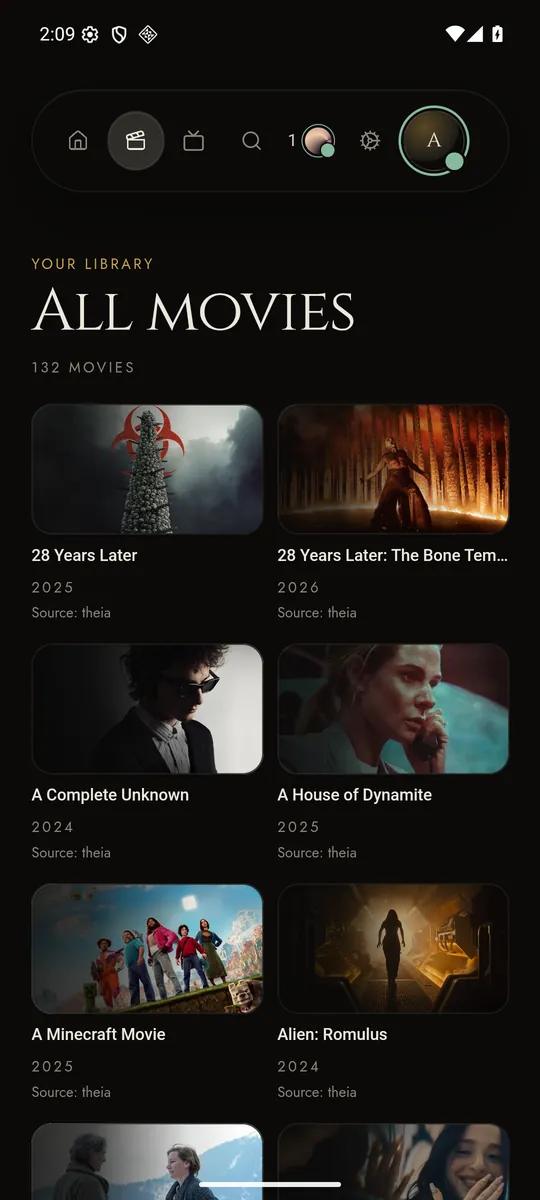
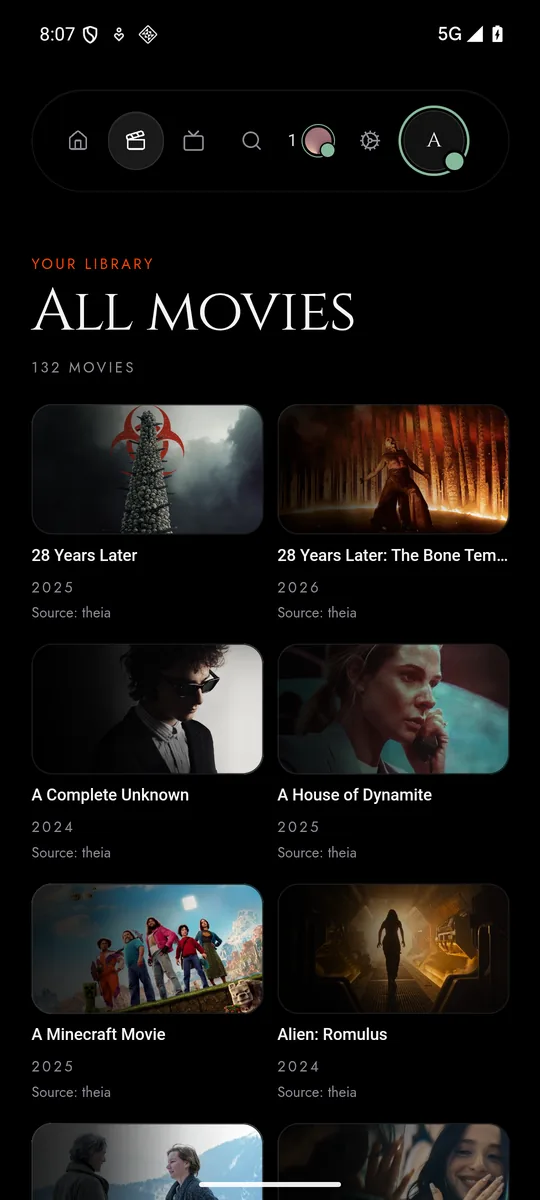
Theia 5.2.0: release notes, README and pictures for the 5.1 interface

diff --git a/site/assets/css/30-hero.css b/site/assets/css/30-hero.css
@@ -38,9 +38,7 @@
   display: block;
 }
 .gilded {
-  background: linear-gradient(110deg, var(--bone) 8%, var(--accent) 88%);
-  color: transparent;
-  background-clip: text;
+  color: var(--accent);
 }
 .hero .lead {
   max-inline-size: 35rem;

diff --git a/docs/screenshots/README.md b/docs/screenshots/README.md
@@ -1,8 +1,10 @@
 # The screenshots
 
-The pictures in the README of this repository show **Theia 5.0** on a **sample
-library**, taken on 7 November 2026. None of them is a mockup, and none shows
-anybody's real library.
+The pictures in the README of this repository show **Theia 5.1.1** on a **sample
+library**, taken on 10 November 2026 in the Electric Flame colours on pure OLED
+black (decision 239). They replace the 5.0 set of 7 November, which showed the
+earlier gold palette. None of them is a mockup, and none shows anybody's real
+library.
 
 ## The sample library
 
@@ -23,25 +25,37 @@ anybody's real library.
   friends are generated gradients with no letters or features, so nobody can be
   mistaken for a real person.
 
-The server was a throwaway one (port 8395, its own data folder), built from the 5.0
-tree and reporting version 5.0.0, never the maintainer's real library. Every
-outbound connection except TMDB was refused, so nothing reached Theia's Firebase
-database or GitHub.
+The server was a throwaway one (port 8395, a copy of the sample data folder), built
+from the 5.1.1 tree and reporting version 5.1.1, never the maintainer's real
+library. This time it was cut off from everything, TMDB included: the posters,
+backdrops and texts were already in the sample data's cache, so nothing left the
+machine, and nothing reached Theia's Firebase database or GitHub. The film stand-in
+is the 2 h 46 min video again, swapped in for its two-second clip for the
+duration of the session and put back afterwards. The friends sheet needed the
+Theia+ early-access code that the beta accepts for tests (`THEIA-PLUS-TEST`), typed
+into the throwaway server only.
 
 ## What each picture is
 
 | Picture | How it was taken |
 | --- | --- |
-| `onboarding`, `profiles`, `home`, `home-rows`, `library`, `film`, `series`, `series-detail`, `search`, `settings`, `settings-playback`, `friends` | The 5.0 interface of the native player, rendered in Microsoft Edge (1400 x 825 CSS pixels at 2x, a little taller where a page needs it) against the sample server, with only the window's own commands answered by a stand-in (the server's address, the window size). The title bar's buttons are drawn by the interface itself. It is the same page the native window shows; it is not a photograph of the native window. |
-| `friends` | As above, plus two alterations: every friend is shown as living in another household, and the friends service is reported reachable, because the sample server is cut off from Firebase. The friends' presence (online, watching, up for a film, do not disturb, inactive, offline) is the server's own, kept alive by a script posting the beacons a player would. The picture is cropped to the sheet. |
-| `phone-*` | The Android application, a debug build of the 5.0 tree, running in an Android emulator (a Pixel 7 profile, Android 16), connected to the sample server. The status bar is the emulator's. It is not a photograph of a physical phone. |
-| `tv-*` | The same application in an Android TV emulator (Google TV system image, Android 16, 1920 x 1080), driven with the keys a remote sends. The ring is the interface's own focus ring. It is not a photograph of a television, and no television was involved. |
-| `player` | The real Windows player, built from the 4.4.2 source, in a 1400 x 825 window at 200 % scaling, driven with real mouse input and photographed on 20 October 2026. It shows the timeline preview: the pointer is at 2:02:17 and the scene is decoded at that second by the player's second engine instance. The window has no sound, and its picture is the video described above. It has not been retaken for 5.0. |
+| `onboarding`, `profiles`, `home`, `home-rows`, `library`, `film`, `series`, `series-detail`, `search`, `settings`, `settings-playback`, `friends` | The 5.1.1 interface of the native player (the current `player/ui` build), rendered in Microsoft Edge (1400 x 825 CSS pixels at 2x, a little taller where a page needs it) against the sample server, with only the window's own commands answered by a stand-in (the server's address, the window size). The page is served by a small proxy as `theia.localhost:5200`, which is the address the settings overview prints. The title bar's buttons are drawn by the interface itself. It is the same page the native window shows; it is not a photograph of the native window. |
+| `friends` | As above, plus two alterations: every friend is shown as living in another household, and the friends service is reported reachable, because the sample server is cut off from Firebase. The friends' presence (online, watching, up for a film, do not disturb, inactive, offline) is the server's own, kept alive by a script posting the beacons a player would. The picture is the sheet alone, whole. |
+| `phone-*` | The Android application, a debug build of the 5.1.1 tree, running in an Android emulator (a Pixel 7 profile, Android 16, 1080 x 2400), connected to the sample server through `adb reverse`. The page was driven over devtools and each picture is the emulator's own screen capture, status bar included. `phone-connect` is the first screen with no server saved, and shows the camera scan of decision 240. It is not a photograph of a physical phone. |
+| `tv-*` | The same application in an Android TV emulator (Google TV system image, Android 16, 1920 x 1080), driven with the keys a remote sends; the system's first-run setup was skipped with `settings put` before the application was installed. The ring is the interface's own focus ring. It is not a photograph of a television, and no television was involved. |
+| `player` | **Not a native capture any more.** The player's own interface (the timeline preview, the island, the bar) rendered in Edge, after Resume was pressed on *Dune: Part Two* and the window's status frames were answered by a stand-in. Edge has no video engine, so the picture behind the controls is the film's TMDB backdrop, zoomed and panned. The pointer is at 2:02:17 and the scene above the bar is decoded at that second by the sample server from the 2 h 46 min stand-in video; it is that video's frame, not the film's. The real Windows player's capture of 20 October 2026 (4.4.2, gold palette) is retired because it no longer showed the product. |
 
-Two things were left out on purpose. The *Server & sources* page of the settings prints
-the folders of the machine the pictures were taken on, so it is not shown. And no
-picture claims that a given phone or television plays a given file: the emulators
-show how the screens look, not what a device can decode.
+Three things were left out on purpose. The *Server & sources* page of the settings
+prints the folders of the machine the pictures were taken on, so it is not shown.
+The welcome page of the server's own web interface prints the machine's addresses,
+so it is not shown either. And no picture claims that a given phone or television
+plays a given file: the emulators show how the screens look, not what a device can
+decode.
+
+Not retaken, and not claimed: the native window itself (the real player draws the
+film with its own engine, which this session did not run), and the site's
+recording, which is a capture of the shipped application and still shows the
+earlier palette.
 
 ## Replacing them
 
@@ -49,4 +63,6 @@ Rebuild the sample server from the tree, seed the household, and shoot the same
 screens. The scripts that built the library, seeded the household, kept the friends
 present and drove the pages (`make.mjs`, `seed.mjs`, `friends.mjs`, `proxy.mjs`,
 `shoot-readme.mjs`) are in `scripts/sample-library/` of the private repository. They
-are not published here.
+are not published here. The 10 November 2026 set was shot with the tour scripts of
+`.theia-private/ui-tour-20261110/` (`final.mjs` for the interface, `phone.mjs` and
+`tv.mjs` for the emulators, `og.mjs` for the share card), which are not tracked.

diff --git a/README.md b/README.md
@@ -11,7 +11,7 @@
 <p align="center">
   <a href="https://github.com/Benitoow/theia-media/releases/latest"><img alt="Latest release" src="https://img.shields.io/github/v/release/Benitoow/theia-media?style=flat-square&color=FF4500"></a>
   <a href="LICENSE"><img alt="Free for noncommercial use: PolyForm Noncommercial from 4.0, GPL-3.0 up to 3.4" src="https://img.shields.io/badge/licence-PolyForm%20NC%20(4.0%2B)%20%C2%B7%20GPL--3.0%20(%E2%89%A43.4)-555?style=flat-square"></a>
-  <a href="#theia-51-instant-refresh-system-tray-theia-social-beta-and-deep-performance"><img alt="Theia 5.1" src="https://img.shields.io/badge/Theia-5.1.1-FF4500?style=flat-square"></a>
+  <a href="#theia-52-the-phone-scans-your-server-and-the-interface-calms-down"><img alt="Theia 5.2" src="https://img.shields.io/badge/Theia-5.2.0-FF4500?style=flat-square"></a>
   <a href="https://discord.gg/5E55F7XFZp"><img alt="Join the Discord" src="https://img.shields.io/badge/Discord-join%20us-5865F2?style=flat-square"></a>
   <img alt="Windows x64" src="https://img.shields.io/badge/Windows-x64-555?style=flat-square">
   <img alt="Ubuntu 24.04 x64" src="https://img.shields.io/badge/Ubuntu%2024.04-x64-555?style=flat-square">
@@ -21,10 +21,10 @@
 
 <p align="center">
   <a href="https://theia-media.app/">Website</a> ·
-  <a href="#theia-51-instant-refresh-system-tray-theia-social-beta-and-deep-performance">Theia 5.1</a> ·
+  <a href="#theia-52-the-phone-scans-your-server-and-the-interface-calms-down">Theia 5.2</a> ·
   <a href="#see-it">Screenshots</a> ·
   <a href="#downloads">Downloads</a> ·
-  <a href="docs/releases/v5.1.1.md">5.1 release notes</a> ·
+  <a href="docs/releases/v5.2.0.md">5.2 release notes</a> ·
   <a href="#three-minute-setup">Setup</a> ·
   <a href="#theia-plex-jellyfin-or-emby">Compare</a> ·
   <a href="https://discord.gg/5E55F7XFZp">Discord</a>
@@ -32,7 +32,7 @@
 
 ![The home screen of Theia: navigation with friends around, the film you were watching, and the rows below it](docs/screenshots/home.webp)
 
-*The home screen of Theia 5.0, in English, on a sample library of 132 recent films and 40 series with friends around. How every picture on this page was made, and what is real in it, is in [docs/screenshots](docs/screenshots/README.md).*
+*The home screen of Theia 5.1, in English, on a sample library of 132 recent films and 40 series with friends around. How every picture on this page was made, and what is real in it, is in [docs/screenshots](docs/screenshots/README.md).*
 
 Theia turns the folders of films and series on your computers, your NAS and your
 Google Drive into one private cinema. A small server looks after your library, a
@@ -52,6 +52,21 @@ connect it: **Google Drive**, through your own Google client. See
 | One download | Built for choosing | Private by default |
 | --- | --- | --- |
 | One setup includes the server, launcher, native player and media engine. Choose all-in-one, server-only or player-only. FFmpeg is downloaded only when the server needs conversion. | Resume, profiles, watchlists, duration filters, one search across films and series, and a nightly pick. | No telemetry or cloud account. TMDB supplies metadata, GitHub Releases supplies updates, and Firebase carries the friends service described above. |
+
+## Theia 5.2: The phone scans your server and the interface calms down
+
+> [!IMPORTANT]
+> **Theia 5.2 is a polish release on the 5.1 interface, and the phone gets the most.**
+> [Read the 5.2 release notes](docs/releases/v5.2.0.md) for what was and was not checked.
+
+| New in 5.2 | What it means |
+| --- | --- |
+| **Scan the server's QR code in the app** | The Android application's connect screen opens the camera, reads the QR code your server shows, and connects. Nothing to copy from one screen to another. |
+| **A phone player that is the desktop's, made small** | One row of small icons under the timeline, the island on top, no volume, and a sheet that is named for everything it holds: audio, subtitles and quality. |
+| **No more gold-era gradients** | The underline under the wordmark, the glow in the profile button and the Theia+ gradients are gone. Black scrims over artwork stay. |
+| **Search on the connect screen's field** | The search page rests on the same quiet field of marks as the connect screen, instead of a video loop: about 850 kB lighter. |
+| **Updating Theia restarts the player** | After an update the player restarts on its own, so the new interface is the one you see. |
+| **A QR code that points at your Wi-Fi** | On a machine running a VPN such as Cloudflare WARP, the server's QR code no longer points at the VPN. |
 
 ## Theia 5.1: Instant refresh, system tray, Theia+ social beta and deep performance
 
@@ -265,8 +280,9 @@ Since 4.4, the player also gives you:
 ![The playback bar of the native player with the pointer at 2:02:17: a still of that scene above the bar, the -30 s and +30 s buttons and the end time](docs/screenshots/player.webp)
 
 *The timeline preview: the pointer is at 2:02:17, nothing has seeked, and the scene
-at that second is drawn above the bar. This picture was taken with 4.4.2 and is a
-stand-in made from the film's own backdrop; see [docs/screenshots](docs/screenshots/README.md).*
+at that second is drawn above the bar. The picture behind the controls is the film's
+own backdrop standing in for the video, because this capture is the player's interface
+rendered in a browser; see [docs/screenshots](docs/screenshots/README.md).*
 
 Theia deliberately has no live TV, DVR, music library, plugins or multi-user
 permissions.
@@ -535,6 +551,13 @@ file. They are not detected from picture or sound, and many files have none.
 Each release has its own notes, with what changed, what to do when updating and
 what was and was not checked.
 
+- **[5.2.0](docs/releases/v5.2.0.md)** — the phone scans your server's QR code and
+  plays with the desktop's bar made small, the gold-era gradients go, search rests on
+  the connect screen's field of marks, and updating Theia restarts the player.
+- **[5.1.1](docs/releases/v5.1.1.md)** — the official flame identity on pure OLED black,
+  the Theia+ friends sheet laid out properly and the official mark in the Windows programs.
+- **[5.1.0](docs/releases/v5.1.0.md)** — instant library refresh, a system tray for the
+  headless server, the Theia+ social beta and a much lighter database and bundle.
 - **[5.0.0](docs/releases/v5.0.0.md)** — the biggest update so far: one library across
   computers, NAS and Google Drive, one profile that follows you, the title page for
   every source, an Android application for your phone and a television beta, the

diff --git a/site/assets/PROVENANCE.md b/site/assets/PROVENANCE.md
@@ -76,13 +76,18 @@ web (CLAUDE.md, "No unverified image").
 The library and player captures were added on 20 October 2026, replacing the
 illustration `moment-library.webp` (removed), which showed a dark gallery with
 empty frames where the library now shows itself. The friends crop was added on
-26 October 2026, replacing the last illustration in the product cards.
+26 October 2026, replacing the last illustration in the product cards. All three
+and the share card were retaken on 10 November 2026 for the 5.1.1 interface (the
+Electric Flame colours on pure OLED black, decision 239), because the earlier ones
+showed the gold palette and a button the product no longer draws, and again the same
+evening once the wordmark underline and the profile glow were removed (decision 241).
 
 | Published file | What it is | Where it is used |
 | --- | --- | --- |
-| `img/shot-library.webp` | The *All movies* screen of the player built from the 5.0 source, cropped and scaled to 1200 x 900 | "A library that feels like yours", labelled *Screenshot* |
-| `img/shot-player.webp` | The title page and video canvas during a sample film from the 5.0 source, scaled to 1600 x 943 | "A player built for your files", labelled *Screenshot* |
-| `img/shot-friends.webp` | A 1200 x 707 crop of the real friends interface in 5.0 rendered in Edge against the sample server, showing invented friends watching, online and up for a film | "Closer, even from a distance", labelled *Screenshot* |
+| `img/shot-library.webp` | The *All movies* screen of the 5.1.1 interface, a 1400 x 1050 window rendered in Edge at 2x, scaled to 1200 x 900 (no crop) | "A library that feels like yours", labelled *Screenshot* |
+| `img/shot-player.webp` | The player's own interface on *Dune: Part Two* with the pointer on the timeline at 2:02:17, rendered in Edge, scaled to 1600 x 943. The picture behind the controls is the film's TMDB backdrop, standing in for the video (Edge has no video engine); the scene above the bar is the sample server's decode of the stand-in video at that second | "A player built for your files", labelled *Screenshot* |
+| `img/shot-friends.webp` | The real friends interface in 5.1.1 rendered in Edge against the sample server, a 1400 x 825 window at 2x scaled to 1200 x 707, showing invented friends watching, online and up for a film | "Closer, even from a distance", labelled *Screenshot* |
+| `img/og-image.jpg` | The share card, 1200 x 630: the wordmark, the headline and one line of the site's own words on pure black, and the library capture. Composed by `.theia-private/ui-tour-20261110/og.mjs` (not tracked) from the site's own Cinzel and Jost files. No image other than the product capture is in it | the link-sharing preview |
 
 All come from the sample library described in `docs/screenshots/README.md` of the
 public repository: 132 recent films and 40 series, every file a two-second clip
@@ -93,26 +98,32 @@ film is a 2 h 46 min video made from the title's own TMDB backdrop, panned and z
 the picture in the player and in the preview is not the film. Nothing here was
 fetched from anywhere else, and no image of a real household or library is shown.
 
-The library and film pictures are captures from the 5.0 interface. The friends picture
-is a crop of `friends.png` (2800 x 2640), taken on 7 November 2026 with the
-existing `scripts/sample-library/shoot-readme.mjs` bench. As documented beside
-the README screenshots, that browser bench marks the sample friends as living
-in another household and the service as reachable; Firebase is blocked. It is
-an interface capture with sample data, not evidence of a real network session.
-The published WebP SHA-256 digests are:
[3 lines of base64/hex data omitted]
+The three pictures are captures of the 5.1.1 interface taken on 10 November 2026
+with the tour scripts of `.theia-private/ui-tour-20261110/` (not tracked), against a
+throwaway sample server cut off from every network. As documented beside the README
+screenshots (`docs/screenshots/README.md`), that browser bench marks the sample
+friends as living in another household and the service as reachable; Firebase is
+blocked, and the throwaway server had the Theia+ test code activated so that the
+friends sheet is unlocked. They are interface captures with sample data, not
+evidence of a real network session. The published SHA-256 digests are:
[4 lines of base64/hex data omitted]
 
 The site uses the player's 1600:943 aspect ratio for its three screenshot
 windows, with cover fitting anchored at the top. The player stays entirely
 visible; the library is cropped at the bottom. Captions sit below the images
 instead of covering the playback controls. No screenshot is stretched or padded.
+The recording below is not part of this retake: it is a capture of the shipped
+application from 22 October 2026 and still shows the earlier palette.
 
 ```sh
-ffmpeg -i library.png -vf "crop=2200:1650:300:0,scale=1200:900:flags=lanczos" -c:v libwebp -quality 84 -compression_level 6 shot-library.webp
-ffmpeg -i film.png -vf "scale=1600:943:flags=lanczos" -c:v libwebp -quality 84 -compression_level 6 shot-player.webp
-ffmpeg -i friends.png -vf "crop=2400:1414:200:400,scale=1200:707:flags=lanczos" -c:v libwebp -quality 84 -compression_level 6 shot-friends.webp
+# the 2800-pixel captures of `final.mjs`: site-library.png (1400 x 1050 window),
+# player.png and site-friends.png (1400 x 825 windows), all at 2x
+ffmpeg -i site-library.png -vf "scale=1200:900:flags=lanczos" -c:v libwebp -quality 82 -compression_level 6 shot-library.webp
+ffmpeg -i player.png -vf "scale=1600:943:flags=lanczos" -c:v libwebp -quality 82 -compression_level 6 shot-player.webp
+ffmpeg -i site-friends.png -vf "scale=1200:707:flags=lanczos" -c:v libwebp -quality 82 -compression_level 6 shot-friends.webp
 ```
 
 ## The recording

diff --git a/docs/releases/v5.2.0.md b/docs/releases/v5.2.0.md
@@ -1,0 +1,53 @@
+# Theia 5.2.0 — the phone scans your server, the interface calms down, and updating Theia restarts it
+
+**The Android application reads your server's QR code itself, its player is the desktop's bar made small, the gold-era gradients are gone, search rests on the connect screen's field of marks, and updating Theia now restarts the player so the new interface is the one you see.**
+
+Theia 5.2.0 is a **Product Release** (decision 196) that follows 5.1.1 the same evening the maintainer went through the whole interface again, screen by screen, on the 5.1.1 build. The native player shells (Rust, libmpv) are the ones already pinned: nothing native changed. What reaches the desktop travels in the signed interface pack `theia-ui-5.2.0.zip`; the six servers and the setups are rebuilt around the pinned shells; the Android application is a new APK, because its shell gained a permission (below).
+
+---
+
+## What arrives with 5.2.0
+
+### 1. The phone reads the server's QR code (decision 240)
+
+- **A button on the connect screen:** *Scan a QR code*. The camera opens under a frame, the code is decoded inside the application (jsQR 1.4.0, Apache-2.0, fetched only when a scan starts), and the address it carries fills the field and connects. A camera application used to open that address in a browser; nobody has to copy it into Theia any more. Another code (a Wi-Fi sign-in, a website) is refused in words; a refused permission, a phone with no camera and Back are each answered.
+- **One permission, `CAMERA`,** declared as *not required* so a television or a tablet without a camera keeps the application. The shell grants the page's own origin the camera and nothing else, and Android's question is put at the moment of the scan, never at launch. Frames are decoded and dropped: nothing is recorded or sent.
+- **The server's QR code no longer points at a VPN.** On a machine running Cloudflare WARP the primary address, and so the welcome page's QR code, was the VPN adapter (`172.16.0.2`) instead of the Wi-Fi. VPN adapters now rank after real ones, and adapters named like a LAN's before unknown ones.
+- The welcome page of the server says to scan the code from the application (French and English).
+
+### 2. The phone's player is the desktop's bar, made small (decision 240)
+
+- One row of 18–20 px icons under the timeline, the 44 px touch targets kept; no volume (the device's keys) and no fullscreen (the shell's). The island of the desktop shows on a phone too, at the top under the status bar.
+- The button that opens the audio, subtitle and quality sheet is named for everything it holds ("Audio, subtitles and quality"); the sheet is narrower, smaller and pure black, and rests on the bar instead of covering it.
+
+### 3. The interface calms down (decision 241)
+
+- **No decorative accent gradient.** The underline under the wordmark, the glow in the profile button, the Theia+ pill and *Activate* gradients, the glows of the web viewer's pages and the site headline's gradient are flat or gone. Black scrims over artwork stay.
+- **Search rests on the connect screen's field of marks** instead of a video loop: about 850 kB less in the interface, and it answers the pointer the way the connect screen does. Under reduced motion it draws one frame and stops.
+- **The thumbs on a title page are squares.** The count is a badge on the corner, drawn only once somebody has reacted: no more empty space beside the icon, and a reaction still cannot move the row.
+
+### 4. Updating Theia restarts the player (decision 241)
+
+When the *Update* button staged an interface pack, it now says the player is installing, saves your position and, after a moment, restarts the player so the new interface is the one on screen. Before, the server updated and the player went on running the old interface until somebody restarted it by hand. A pack that is already the one served restarts nothing; if the restart is refused (a film is on screen) the Restart button of the *Player interface* group is still there. **The first update to 5.2.0 is done by the 5.1.x interface, which does not do this**: use that Restart button once; from 5.2.0 on updates restart on their own.
+
+### 5. Smaller fixes
+
+- A season the metadata names only "Season 2" is drawn in the interface's language ("Saison 2").
+- A statistics poster that cannot load falls back to the not-found art instead of a broken-image icon.
+- The Discord button of the Theia+ gate and the settings segments reach 44 px.
+- The player's activity beacon no longer needs `crypto.randomUUID`, so a page served from a plain address still works.
+- The README, the site's three product pictures, the share card and the phone and television pictures are retaken for the 5.1 interface.
+
+---
+
+## Updating
+
+- **The desktop player (Windows, macOS, Linux):** the interface pack updates from *Settings › Updates*; use *Restart to update* once (see 4). No new shell.
+- **The server:** the usual update, from the player or from the setup.
+- **Android:** install `theia-android-5.2.0.apk`. It is signed with the same key as 5.0 and 5.1 and updates them in place; the camera permission is asked only the first time you scan.
+
+## What was and was not checked
+
+- **Verified:** the Go suite (45 packages), the player's full render bench (French and English, at 390, 969 and 1920 px), the connect bench with a camera that films the server's own QR code as `internal/discovery` draws it, the phone bench at three shapes, the update-restart bench (three cases), the site tests, the contrast guard and the decision record. A debug build of the native player carrying this interface was run on the maintainer's PC against a throwaway server and looked at by him.
+- **Pictures:** the new README and site pictures come from the current interface in Edge, and the phone and television ones from Android emulators; the player picture is the interface over a stand-in backdrop, not a native capture (see `docs/screenshots/README.md`).
+- **Not verified:** Android's own camera question and the camera inside the real WebView on a physical phone; the restart-after-update with a real published pack (it is asserted against the shell's documented answers); macOS and Linux native windows.
